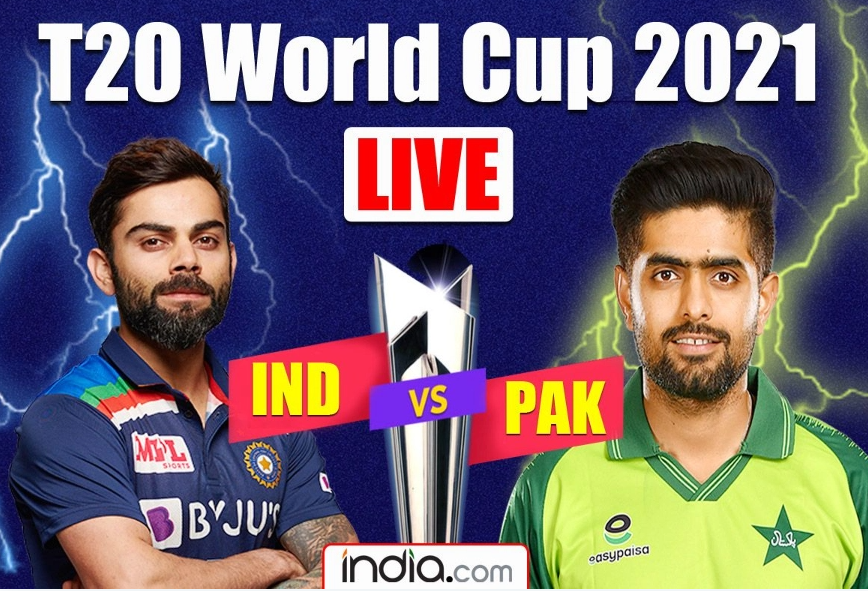
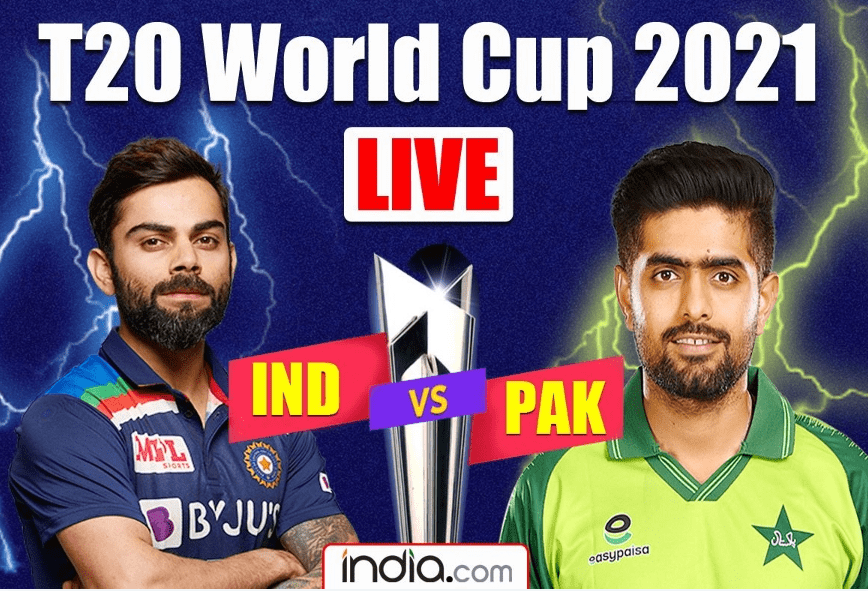
#114 images optimize updated

Changed region(s): [[0.0933, 0.6396, 0.1555, 0.6701], [0.4977, 0.6701, 0.5288, 0.7005]]

diff --git a/src/assets/index.js b/src/assets/index.js
@@ -1,6 +1,6 @@
 export { default as loginBackground } from './login/new_back.webp'
-export { default as loginBackground1 } from './login/back1.png'
-export { default as loginBackground2 } from './login/back2.png'
+// export { default as loginBackground1 } from './login/back1.png'
+// export { default as loginBackground2 } from './login/back2.png'
 export { default as MobileBackground } from './login/mobile_back.webp'
 export { default as Re } from './login/re.png'
 

diff --git a/src/admin/assets/index.js b/src/admin/assets/index.js
@@ -1,7 +1,7 @@
 export { default as ARROWUP } from './arrowUp.png'
 export { default as ARROWDOWN } from './arrowDown.png'
 export { default as ARROWUPPROFIT } from './arrowUp.png'
-export { default as BACKIMAGE } from './back.png'
+export { default as BACKIMAGE } from '../../expert/assets/back.png'
 export { default as LOCKOPEN } from './lockopen.png'
 export { default as LOCKED } from './locked.png'
 export { default as EYE } from './eye.png'

diff --git a/src/fairGameWallet/assets/index.js b/src/fairGameWallet/assets/index.js
@@ -1,7 +1,7 @@
 export { default as ARROWUP } from './arrowUp.png'
 export { default as ARROWUPPROFIT } from './arrowUp.png'
 export { default as ARROWDOWN } from './arrowDown.png'
-export { default as BACKIMAGE } from './back.png'
+export { default as BACKIMAGE } from '../../expert/assets/back.png'
 export { default as LOCKOPEN } from './lockopen.png'
 export { default as LOCKED } from './locked.png'
 export { default as EYE } from './eye.png'

diff --git a/src/components/Background.js b/src/components/Background.js
@@ -1,5 +1,5 @@
 import { Box } from "@mui/material";
-import Back from "../admin/assets/back.png";
+import Back from "../expert/assets/back.png";
 export default function Background({ children }) {
   return (
     <Box
